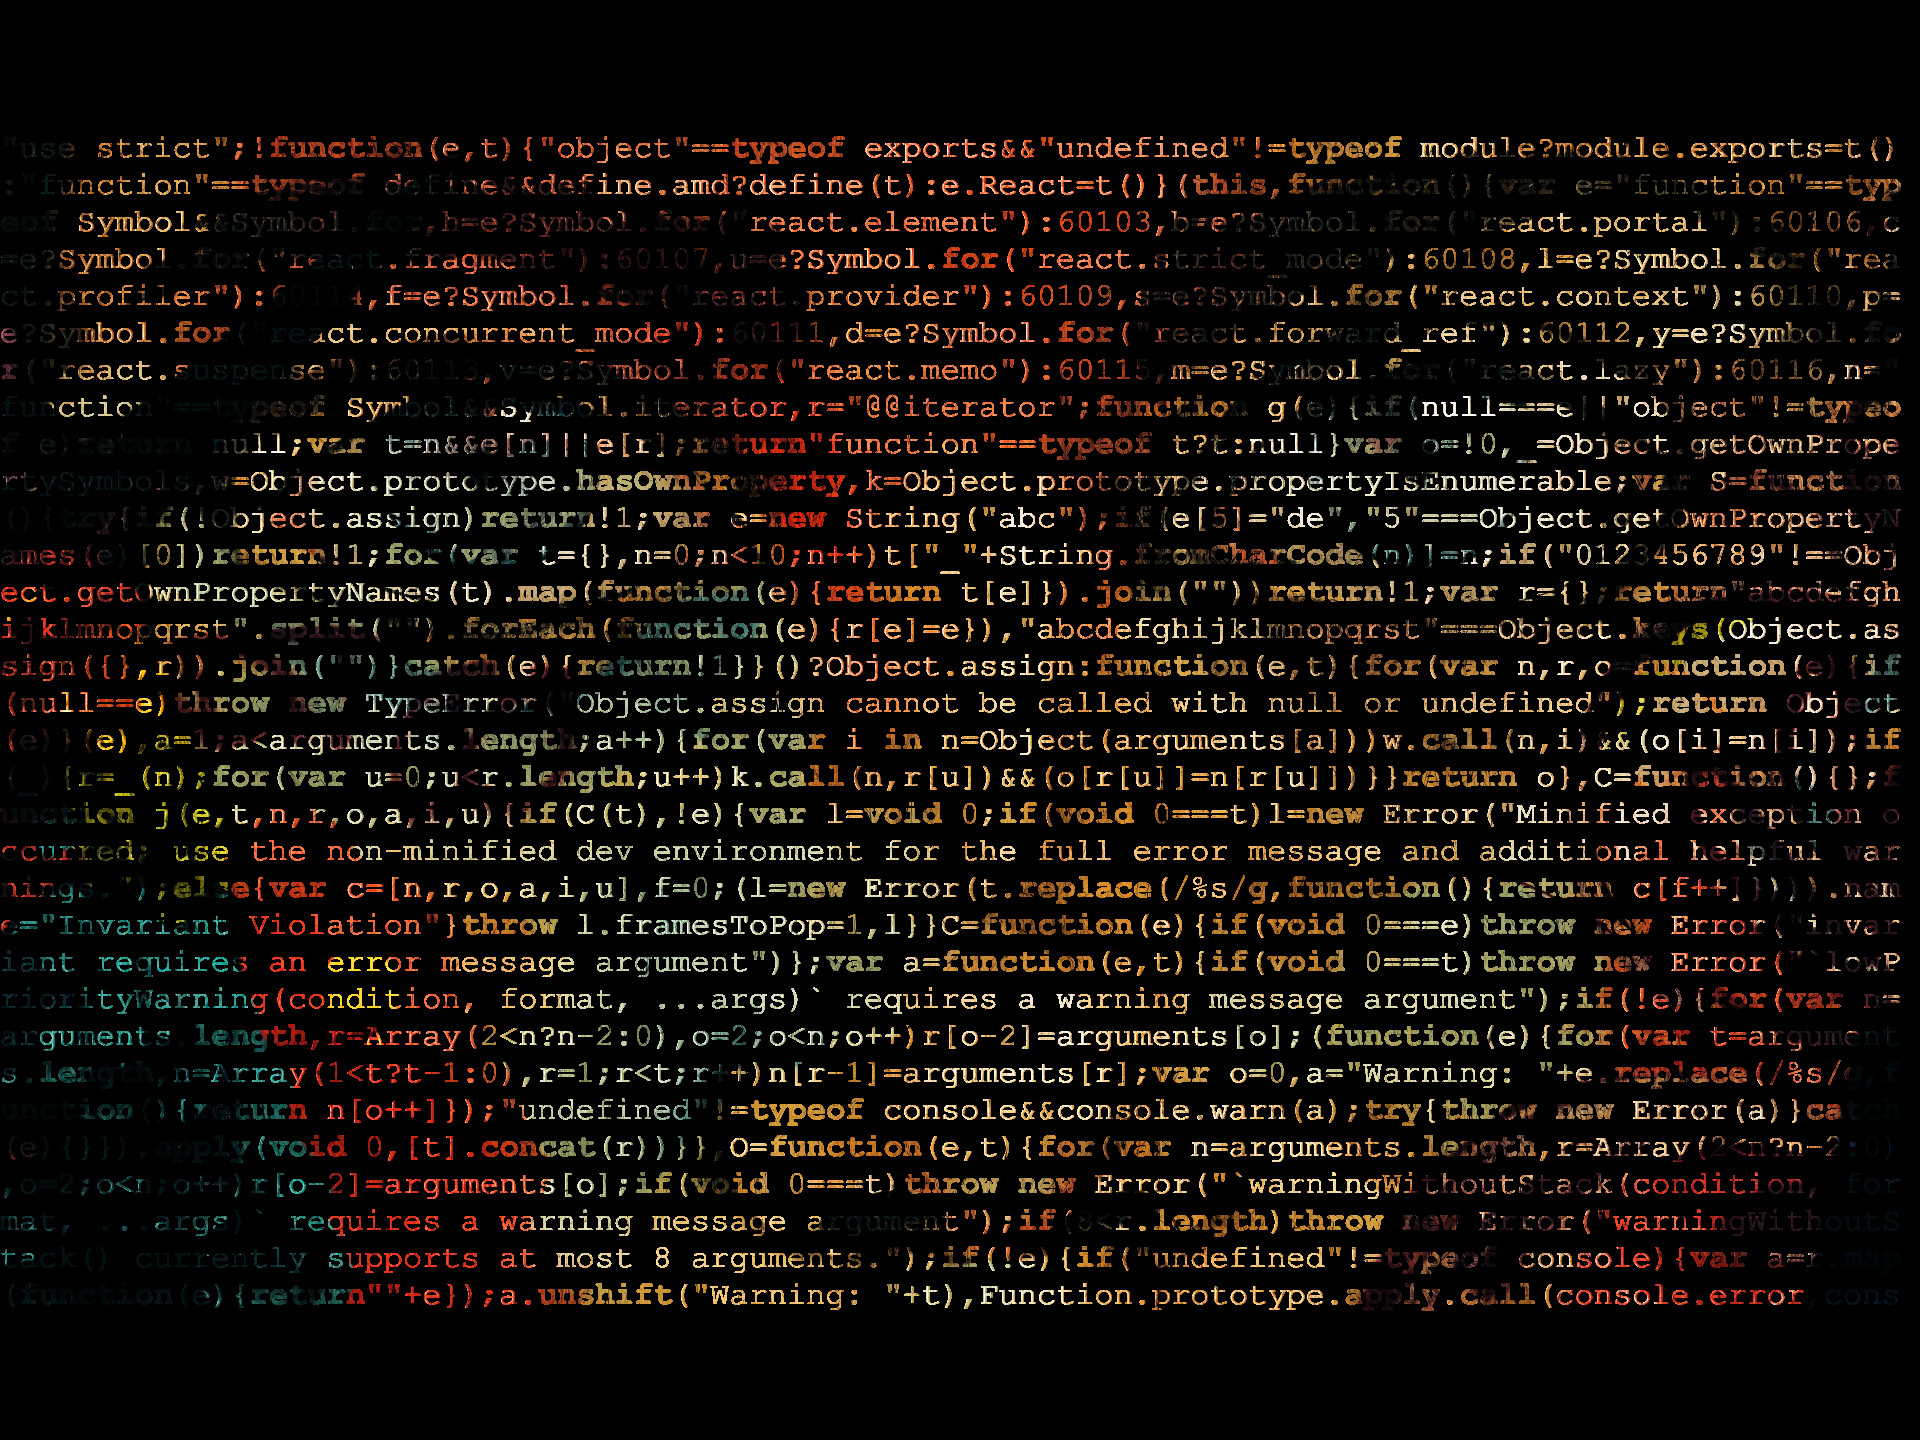
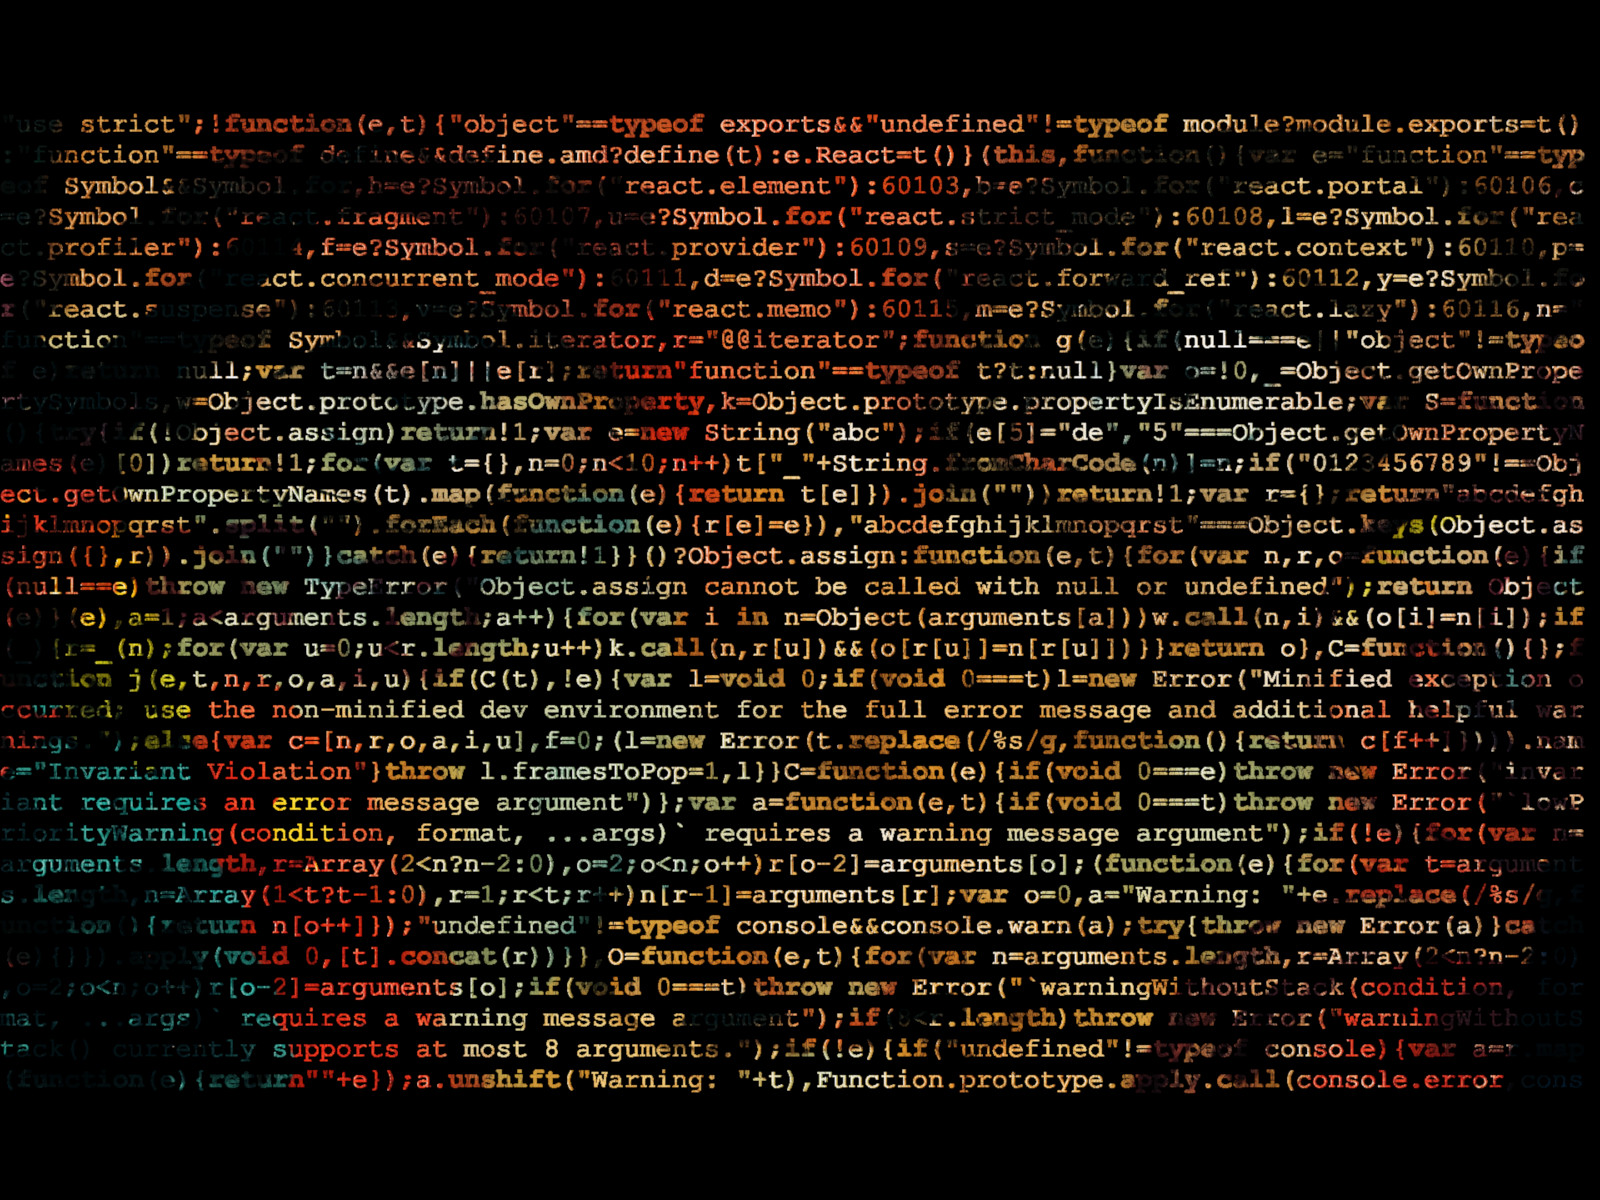
update the landing page

diff --git a/pages/index.js b/pages/index.js
@@ -17,6 +17,9 @@ const styles = theme => ({
     fontSize: "1.2rem",
     marginTop: 5,
     maxWidth: 1000
+  },
+  textWhite: {
+    color: "white"
   }
 });
 
@@ -28,7 +31,7 @@ class Index extends React.Component {
   }
 
   handleScrollToMain = event => {
-    scroll.scrollTo(this.main.current.offsetTop);
+    scroll.scrollTo(this.main.current.offsetTop - 180);
   };
 
   render() {
@@ -39,59 +42,59 @@ class Index extends React.Component {
         <div className="landing1" onClick={this.handleScrollToMain}>
           {/* Software engineering is art and logic in balance... */}
         </div>
-        <div
-          ref={this.main}
-          className="container-md"
-          style={{ padding: "20px 24px 0" }}
-        >
-          <Navbar />
-          <div className="hero">
-            Bring your ideas and let’s work together to build something
-            beautiful
+
+        {/* <Navbar /> */}
+        <div className="hero" ref={this.main}>
+          <div className="container-md">
+            {/* Bring your ideas and let’s work together to build something beautiful */}
+            Let us turn your ideas into inspiring software
+            <Typography className={classes.text1} style={{ marginTop: 50 }}>
+              Codefully is an agile team of software engineers who love to
+              analyze business stories and know how to deliver optimal
+              solutions. Some of our key services include web and mobile
+              application development, data analytics and reporting, business
+              process management, cloud infrastructure implementation, and UI /
+              UX design.
+              <br />
+              Read more about the{" "}
+              <Link href="/services">
+                <a className="hi">services we offer</a>
+              </Link>{" "}
+              and{" "}
+              <Link href="/services#methodology">
+                <a className="hi">our methodology</a>
+              </Link>
+              .
+            </Typography>
           </div>
-          <div className={classnames("title", classes.title)}>
-            {/* Get in touch and book a seat to the digital transformation journey! */}
-            Reason
+        </div>
+        <div style={{ backgroundColor: "#000", padding: "5rem 0" }}>
+          <div className="container-md">
+            <Typography
+              className={classnames(classes.text1, classes.textWhite)}
+            >
+              Since 2010 we design and implement solutions for companies of all
+              sizes and from different industries. We produced applications that
+              dramatically improved aspects of business processes. We helped
+              companies turn their data into insights. We solved problems like
+              managing complicated sales contracts for distributor networks or
+              getting custom sales analytics and reports on demand and on
+              schedule. We developed customer rewards management systems, as
+              well as risk, and innovation management systems.
+              <br />
+              Read more about{" "}
+              <Link href="/work">
+                <a className="hi">our work</a>
+              </Link>{" "}
+              and view some of{" "}
+              <Link href="/work#projects">
+                <a className="hi">our projects</a>
+              </Link>
+              .
+            </Typography>
           </div>
-          <Typography className={classes.text1}>
-            Codefully is an agile team of software engineers who love to analyze
-            business stories and know how to deliver optimal solutions. Some of
-            our key services include web and mobile application development,
-            data analytics and reporting, business process management, cloud
-            infrastructure implementation, and UI / UX design.
-            <br />
-            Read more about the{" "}
-            <Link href="/services">
-              <a className="hi">services we offer</a>
-            </Link>{" "}
-            and{" "}
-            <Link href="/services#methodology">
-              <a className="hi">our methodology</a>
-            </Link>
-            .
-          </Typography>
-          <div className={classnames("title", classes.title)}>Work</div>
-          <Typography className={classes.text1}>
-            Since 2010 we design and implement solutions for companies of all
-            sizes and from different industries. We produced applications that
-            dramatically improved aspects of business processes. We helped
-            companies turn their data into insights. We solved problems like
-            managing complicated sales contracts for distributor networks or
-            getting custom sales analytics and reports on demand and on
-            schedule. We developed customer rewards management systems, as well
-            as risk, and innovation management systems.
-            <br />
-            Read more about{" "}
-            <Link href="/work">
-              <a className="hi">our work</a>
-            </Link>{" "}
-            and view some of{" "}
-            <Link href="/work#projects">
-              <a className="hi">our projects</a>
-            </Link>
-            .
-          </Typography>
-          <div className={classnames("title", classes.title)}>Stack</div>
+        </div>
+        <div className="container-md" style={{ padding: "5rem 0" }}>
           <Typography className={classes.text1}>
             Our software stack is based on the following technologies and
             frameworks: Ruby on Rails, React, Redux, Node.js, PostgreSQL, Amazon
@@ -103,8 +106,8 @@ class Index extends React.Component {
             .
           </Typography>
           <Stack />
-          <div style={{ padding: "100px 0" }} />
         </div>
+        <div style={{ padding: "100px 0" }} />
       </React.Fragment>
     );
   }

diff --git a/css/index.scss b/css/index.scss
@@ -27,9 +27,9 @@ body {
   font-weight: 300;
   font-size: 2rem;
   height: 100vh;
-  background-image: url("../images/code-art-3.jpg");
+  background-image: url("../images/code-art-3.gif");
   background-size: cover;
-  background-position: 50%;
+  background-position: 33% 0;
   background-attachment: fixed;
   background-repeat: no-repeat;
   background-color: #000;
@@ -51,7 +51,8 @@ h6,
 }
 
 .hero {
-  font-size: 5rem;
+  padding: 5rem 0 6rem;
+  font-size: 6rem;
   line-height: 1;
 }
 
